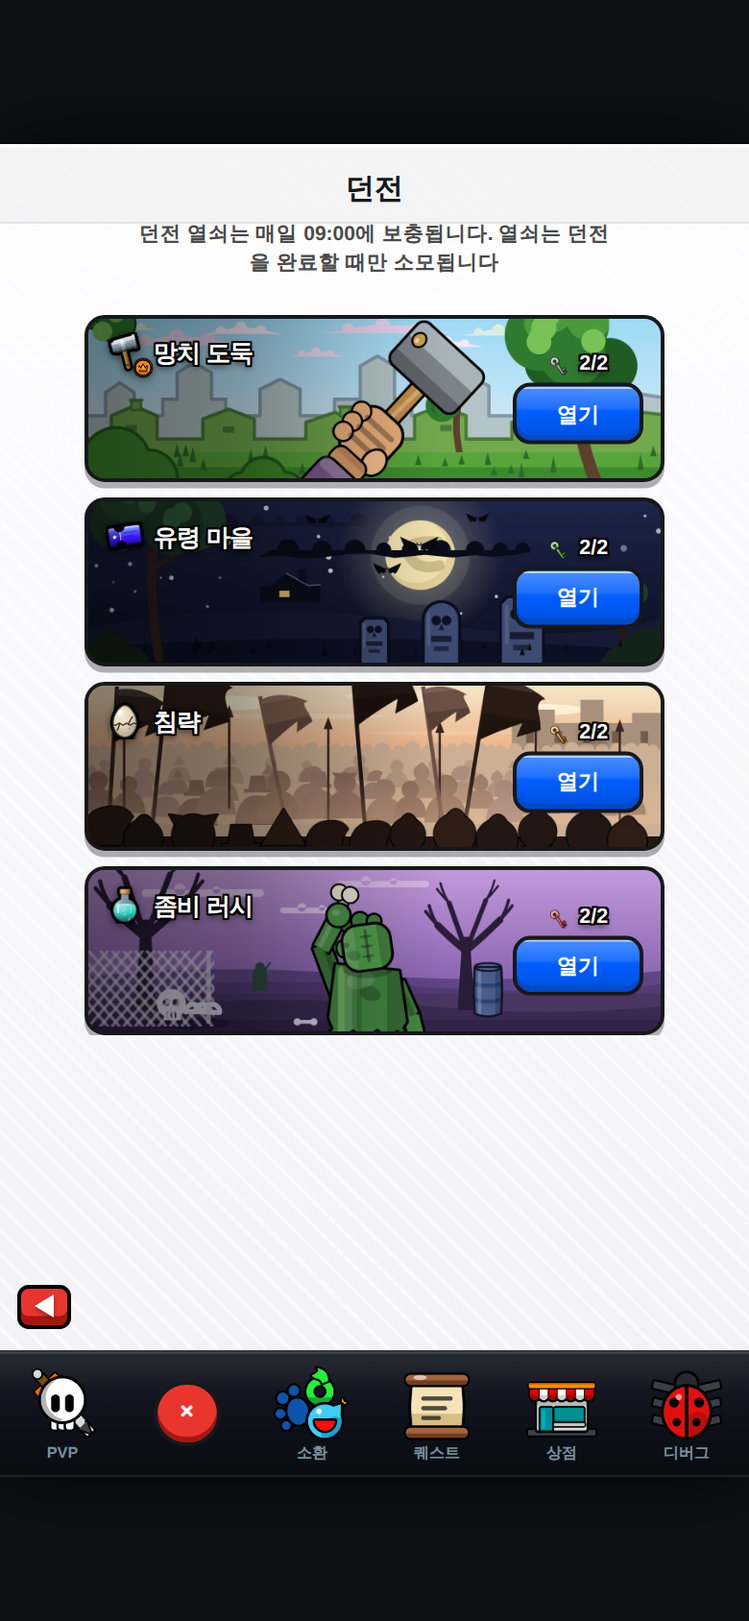
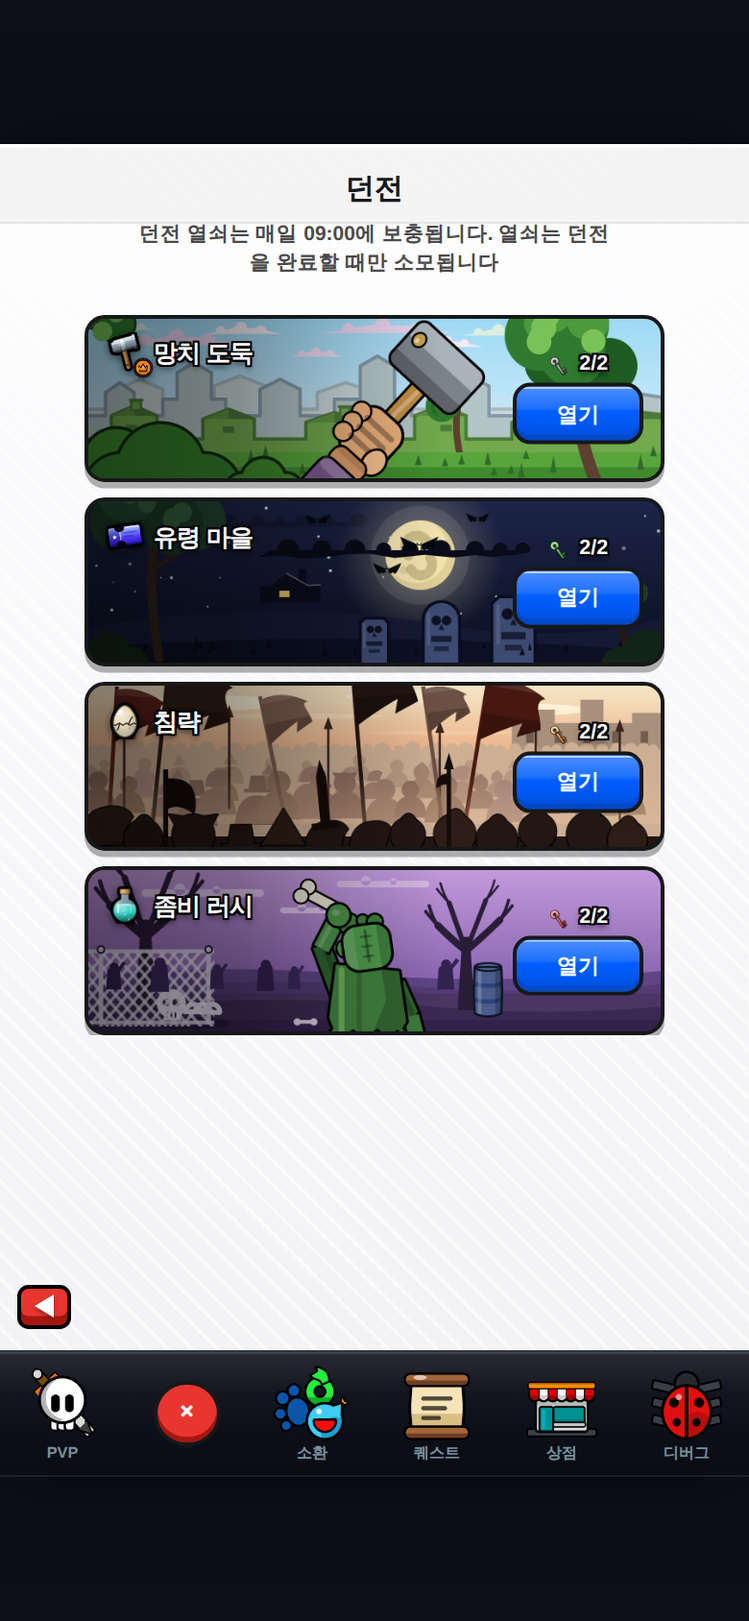
던전 행 4차 인계 공격 지점 ⓐ~ⓔ 구현 — 좀비 본체 셀 음영 재작업(반점 제거·팔몸통 명도 분리·뼈 눕혀 확대·머리혹 크기차)·지평선 떼 6기(보라 톤)·해머 스카이라인 2단+지붕 분리·철망 프레임 마감·근경 무기 3자루+암적 배너·달 S 재조형·별 절반·묘비 이동

diff --git a/web/js/icongen.js b/web/js/icongen.js
@@ -3716,6 +3716,15 @@ IconGen._genderSym = function (ctx, S, female) {
         };
         /* ⚠ 점끼리 x·y 를 동시에 바꾸면 사선 연쇄가 돼 **산맥으로 읽힌다**(1차 시안에서 밟았다).
            벽은 반드시 수직(같은 x 로 두 점), 지붕만 경사 — 그래야 건물이 된다. */
+        /* 원경 연회 열(3차 재채점 교집합 ⓒ — '건물 층이 하나로 세어진다'): 청회 열 **뒤**에 한 단
+           밝은 연회 열을 깔아 스카이라인을 2단으로 겹친다 — 청회 열의 골 사이(y0.60 부근)로
+           비쳐 대기원근 층이 선다. 지붕 경사·높이는 청회 열과 어긋나게. */
+        town([[-0.02, 0.56], [0.05, 0.56], [0.05, 0.44], [0.09, 0.38], [0.13, 0.44], [0.13, 0.56],
+        [0.22, 0.56], [0.22, 0.42], [0.265, 0.36], [0.31, 0.42], [0.31, 0.56],
+        [0.40, 0.56], [0.40, 0.46], [0.45, 0.40], [0.50, 0.46], [0.50, 0.56],
+        [0.60, 0.56], [0.60, 0.40], [0.645, 0.34], [0.69, 0.40], [0.69, 0.56],
+        [0.79, 0.56], [0.79, 0.44], [0.845, 0.38], [0.90, 0.44], [0.90, 0.56], [1.02, 0.56]],
+            '#c9d6d8', '#a7bac2');
         town([[-0.02, 0.60], [0.03, 0.60], [0.03, 0.46], [0.055, 0.40], [0.08, 0.46], [0.08, 0.60],
         [0.13, 0.60], [0.13, 0.50], [0.155, 0.50], [0.155, 0.34], [0.185, 0.28], [0.215, 0.34], [0.215, 0.50], [0.24, 0.50], [0.24, 0.60],
         [0.30, 0.60], [0.30, 0.44], [0.335, 0.38], [0.37, 0.44], [0.37, 0.60],
@@ -3731,6 +3740,15 @@ IconGen._genderSym = function (ctx, S, female) {
         [0.74, 0.74], [0.74, 0.64], [0.79, 0.58], [0.84, 0.64], [0.84, 0.74],
         [0.92, 0.74], [0.92, 0.62], [0.97, 0.58], [1.02, 0.60]],
             '#71a94c', '#4c7a3a');
+        /* 근경 열 지붕/벽 분리(3차 재채점 교집합 ⓒ — 초록 단색 폴리라인은 '산울타리'로 읽힌다):
+           박공마다 지붕 삼각을 어두운 초록으로 채워 벽(연초록)·지붕(진초록)이 갈리면 건물이 된다.
+           ⚠ 원본 실측이 '초록 성벽'이라 초록 자체는 유지(사용자 지시 우선 원칙) — 색상군은 두고
+           명도만 가른다. */
+        [[0.04, 0.08, 0.12, 0.60, 0.54], [0.20, 0.245, 0.29, 0.62, 0.56], [0.38, 0.43, 0.48, 0.64, 0.58],
+        [0.57, 0.615, 0.66, 0.60, 0.54], [0.74, 0.79, 0.84, 0.64, 0.58], [0.92, 0.97, 1.02, 0.62, 0.58]].forEach(([lx, px, rx2, by, py]) => {
+            fill(ctx, '#4c7a3a', () => { ctx.moveTo(W * lx, H * by); ctx.lineTo(W * px, H * py); ctx.lineTo(W * rx2, H * by); });
+            fill(ctx, '#5f9142', () => { ctx.moveTo(W * lx, H * by); ctx.lineTo(W * px, H * py); ctx.lineTo(W * px, H * by); });   // 빛 받는 왼 지붕면(2톤)
+        });
         /* 창 실루엣(10차 2인 공통 '마을 판독') — 근경 열 벽면에 어두운 창 5개 */
         [[0.065, 0.655], [0.235, 0.665], [0.425, 0.67], [0.615, 0.655], [0.795, 0.665]].forEach(([wx, wy]) =>
             fill(ctx, '#4c7a3a', () => ctx.rect(W * wx, H * wy, W * 0.020, H * 0.038)));
@@ -3799,8 +3817,12 @@ IconGen._genderSym = function (ctx, S, female) {
             ctx.beginPath(); p(); ctx.strokeStyle = oc; ctx.lineWidth = H * 0.036; ctx.stroke();
             ctx.beginPath(); p(); ctx.fillStyle = fc; ctx.fill();
         };
-        bush(W * 0.04, H * 0.98, 1.5, '#3f8a2c', '#245c1e');
-        bush(W * 0.30, H * 1.06, 1.0, '#3f8a2c', '#245c1e');
+        /* 키라인 통일(3차 재채점 교집합 ⓔ — '주먹·망치만 키라인이라 조형 언어가 갈린다'):
+           근경 덤불도 주인공과 같은 근흑 키라인으로 내려 전경 소품의 화법을 하나로 묶는다.
+           + 좌측 전경 덤불 1개 추가(좌하단이 풀포기뿐이라 전경 층이 비었다). */
+        bush(W * 0.04, H * 0.98, 1.5, '#3f8a2c', '#102a10');
+        bush(W * 0.115, H * 1.05, 2.0, '#35802a', '#102a10');
+        bush(W * 0.30, H * 1.06, 1.0, '#3f8a2c', '#102a10');
         // 좌상단 늘어진 수풀 — 원본은 좌우 가장자리가 잎으로 채워져 프레임이 꽉 찬다(비평가 4차 '성김')
         for (let i = 0; i < 6; i++) {
             const x = W * (-0.015 + R() * 0.10), y = H * (-0.12 + R() * 0.34), r = H * (0.10 + R() * 0.08);
@@ -3874,8 +3896,8 @@ IconGen._genderSym = function (ctx, S, female) {
            모서리엔 어두운 덤불. */
         const W = S * AR, H = S, R = rnd(23);
         sky(ctx, W, H, '#1d2549', '#0b0f22');
-        for (let i = 0; i < 26; i++) {                                    // 별 — 원본처럼 성기게, 큰 놈 몇 개
-            const x = R() * W, y = R() * H * 0.72, r = H * (0.006 + R() * 0.014);
+        for (let i = 0; i < 26; i++) {                                    // 별 — 원본처럼 성기게. 3차 교집합 ⓔ: 최대 지름 절반('행성처럼 크다') — 단 크기 편차는 원본 사양이라 편차 자체는 유지
+            const x = R() * W, y = R() * H * 0.72, r = H * (0.005 + R() * 0.007);
             fill(ctx, `rgba(255,255,255,${0.35 + R() * 0.55})`, () => ctx.arc(x, y, r, 0, Math.PI * 2));
         }
         (() => {                                                          // 뒤 구름 줄 2개(달 뒤·한 단 밝게)
@@ -3901,14 +3923,18 @@ IconGen._genderSym = function (ctx, S, female) {
         ctx.fillStyle = 'rgba(150,120,60,.18)'; ctx.fillRect(mx - mr, my - mr, mr * 2, mr * 2);
         ctx.beginPath(); ctx.arc(mx - mr * 0.12, my - mr * 0.12, mr * 0.92, 0, Math.PI * 2);
         ctx.fillStyle = '#f2e2ae'; ctx.fill();
-        // 소용돌이 무늬(원본 달의 'S' 마킹)
-        ctx.strokeStyle = 'rgba(120,100,55,.30)'; ctx.lineWidth = mr * 0.30; ctx.lineCap = 'round';
-        ctx.beginPath();
-        ctx.moveTo(mx + mr * 0.52, my - mr * 0.38);
-        ctx.quadraticCurveTo(mx - mr * 0.55, my - mr * 0.45, mx - mr * 0.30, my + mr * 0.05);
-        ctx.quadraticCurveTo(mx - mr * 0.05, my + mr * 0.45, mx + mr * 0.55, my + mr * 0.30);
+        /* 소용돌이 무늬(원본 달의 'S' 마킹) — 3차 A '숫자 6으로 읽힘': 원본 사양이라 각인 자체는
+           유지하되(채택 금지 목록 — 크레이터 전면 교체 아님), 한 획 갈고리 → **위/아래 반원 두 획**
+           으로 갈라 진짜 S 리듬으로 재조형. 폐곡선 느낌이 없어져 숫자로 안 읽힌다.
+           + 흐린 크레이터 원반 2개(무늬 아닌 지형 결 — 저알파 보조). */
+        ctx.strokeStyle = 'rgba(120,100,55,.30)'; ctx.lineWidth = mr * 0.28; ctx.lineCap = 'round';
+        ctx.beginPath(); ctx.arc(mx - mr * 0.10, my - mr * 0.22, mr * 0.34, Math.PI * 0.75, Math.PI * 1.85);   // 윗 반원(왼쪽으로 열림)
+        ctx.stroke();
+        ctx.beginPath(); ctx.arc(mx + mr * 0.02, my + mr * 0.26, mr * 0.32, Math.PI * 1.80, Math.PI * 0.85);   // 아랫 반원(오른쪽으로 열림)
         ctx.stroke();
         ctx.lineCap = 'butt';
+        fill(ctx, 'rgba(120,100,55,.16)', () => ctx.arc(mx + mr * 0.52, my - mr * 0.30, mr * 0.16, 0, Math.PI * 2));   // 크레이터(보조)
+        fill(ctx, 'rgba(120,100,55,.14)', () => ctx.arc(mx - mr * 0.48, my + mr * 0.42, mr * 0.12, 0, Math.PI * 2));
         ctx.restore();
         /* 찢긴 검은 구름 줄 — 원본의 그 가로 스트릭. 달 **앞**을 지나는 한 줄이 핵심이라 달 뒤에
            깔면 의미가 없다(그래서 달 다음에 그린다). 좌반부 평균 휘도 하한(probe-dungeon-title-ink,
@@ -3996,7 +4022,7 @@ IconGen._genderSym = function (ctx, S, female) {
         };
         stone(W * 0.475, H * 0.70, H * 0.17, H * 0.30, true);              // 셋째(작게, 각진 어깨) — 바닥 허전함 보완(비평가 4차)
         stone(W * 0.585, H * 0.62, H * 0.22, H * 0.40);
-        stone(W * 0.72, H * 0.56, H * 0.26, H * 0.48, true);               // 큰 것은 각짐/둥긂을 섞어 리듬(비평가 5차)
+        stone(W * 0.705, H * 0.56, H * 0.26, H * 0.48, true);              // 큰 것은 각짐/둥긂을 섞어 리듬(비평가 5차) · 3차 교집합 ⓔ: [열기]에 잘리던 자리에서 ~10px 왼쪽으로
         for (let i = 0; i < 18; i++) {                                     // 앞 언덕 풀 실루엣 — 지면이 무지 단색으로 끊기지 않게
             const x = W * (0.02 + R() * 0.92), y = H * (0.90 + R() * 0.05), h = H * (0.035 + R() * 0.035);
             fill(ctx, '#060913', () => { const w2 = H * (0.020 + R() * 0.020); ctx.moveTo(x, y); ctx.lineTo(x + w2 / 2, y - h); ctx.lineTo(x + w2, y); });
@@ -4173,10 +4199,10 @@ IconGen._genderSym = function (ctx, S, female) {
         };
         banner(W * 0.30, H * 0.08, H * 0.28, H * 0.30, -0.20, '#7d5c4e');  // 중경 밝은 배너(군중 앞이라 깊이가 갈린다)
         banner(W * 0.585, H * 0.02, H * 0.26, H * 0.28, -0.14, '#6d5044');
-        banner(W * 0.05, H * 0.02, H * 0.30, H * 0.34, 0.06, '#33231b');   /* 9차 '배너 복붙' — 색을 4종으로 갈랐다 */
+        banner(W * 0.05, H * 0.02, H * 0.30, H * 0.34, 0.06, '#5a2019');   /* 9차 '배너 복붙' — 색을 4종으로 갈랐다 · 3차 교집합 ⓔ: 1장은 암적 악센트(전장 서사 + 팔레트 포인트) */
         banner(W * 0.14, -H * 0.10, H * 0.40, H * 0.42, 0.10, '#2e1c15');
         banner(W * 0.46, -H * 0.14, H * 0.38, H * 0.40, -0.08, '#241511');
-        banner(W * 0.70, -H * 0.05, H * 0.36, H * 0.40, 0.16, '#291a12');
+        banner(W * 0.70, -H * 0.05, H * 0.36, H * 0.40, 0.16, '#471810');  // 3차 교집합 ⓔ: 암적 두 번째(좌우로 벌려 반복감 방지)
         (() => {                                                           // 지면 먼지/헤이즈 — 하단이 딱딱하게 끊기지 않게(비평가 3차)
             const hz = ctx.createLinearGradient(0, H * 0.55, 0, H * 0.82);
             hz.addColorStop(0, 'rgba(242,196,156,0)'); hz.addColorStop(1, 'rgba(242,196,156,.30)');
@@ -4186,6 +4212,32 @@ IconGen._genderSym = function (ctx, S, female) {
         for (let i = 0; i < 13; i++) {                                     // 앞 열 — 키라인 + 폭 변주(균일 반원 반복 = 스캘럽 무늬, 비평가 6차)
             figure(W * (i / 13 + 0.015 + R() * 0.025), H * (0.875 + R() * 0.08), 1.75 + R() * 0.8, i % 4 ? '#241612' : '#2e1d16', pickKind(R()), 'rgba(5,3,2,.9)', 1.6 + R() * 0.7);   // 머리가 하단 크롭에 잘리면 삼각 톱니로 읽힌다 — 0.875H
         }
+        /* 근경 무기 실루엣(3차 재채점 교집합 ⓔ): 앞 열 머리 위로 솟는 도끼·검·미늘창 3자루 —
+           창 6자루는 중경 몫이라 가늘어서, 근경엔 '무장한 무리'를 세우는 굵은 실루엣이 없었다.
+           우측 28%는 UI 열이라 피하고(≤0.66W), 앞 열보다 한 단 어두운 근흑으로 갈라 층을 만든다. */
+        (() => {
+            const c = '#140b07';
+            const pole = (x, top, bot, w2) => fill(ctx, c, () => ctx.rect(x - w2 / 2, top, w2, bot - top));
+            // 도끼(0.135W) — 자루 + 한쪽 초승달 날. ⚠ 날 윗변을 자루 꼭대기에서 시작하면
+            // '장대 깃발'로 읽힌다(1차 캡처 확인) — 자루 끝이 날 **위로** 삐져나오고, 날은
+            // 등이 자루에 붙은 두툼한 초승달이어야 도끼가 된다.
+            pole(W * 0.135, H * 0.520, H * 1.0, H * 0.030);
+            fill(ctx, c, () => {
+                ctx.moveTo(W * 0.135 + H * 0.010, H * 0.575);
+                ctx.quadraticCurveTo(W * 0.135 + H * 0.215, H * 0.560, W * 0.135 + H * 0.175, H * 0.795);
+                ctx.quadraticCurveTo(W * 0.135 + H * 0.085, H * 0.720, W * 0.135 + H * 0.010, H * 0.760);
+                ctx.closePath();
+            });
+            // 검(0.415W) — 폭 있는 날 + 크로스가드(기울여 변주)
+            ctx.save(); ctx.translate(W * 0.415, H * 0.86); ctx.rotate(-0.10);
+            fill(ctx, c, () => { ctx.moveTo(-H * 0.030, 0); ctx.lineTo(-H * 0.030, -H * 0.30); ctx.lineTo(0, -H * 0.40); ctx.lineTo(H * 0.030, -H * 0.30); ctx.lineTo(H * 0.030, 0); ctx.closePath(); });
+            fill(ctx, c, () => ctx.rect(-H * 0.085, -H * 0.02, H * 0.17, H * 0.038));
+            ctx.restore();
+            // 미늘창(0.63W) — 자루 + 창끝 + 옆갈고리
+            pole(W * 0.63, H * 0.50, H * 1.0, H * 0.026);
+            fill(ctx, c, () => { ctx.moveTo(W * 0.63 - H * 0.030, H * 0.52); ctx.lineTo(W * 0.63, H * 0.42); ctx.lineTo(W * 0.63 + H * 0.030, H * 0.52); ctx.closePath(); });
+            fill(ctx, c, () => { ctx.moveTo(W * 0.63, H * 0.545); ctx.quadraticCurveTo(W * 0.63 - H * 0.085, H * 0.545, W * 0.63 - H * 0.075, H * 0.635); ctx.quadraticCurveTo(W * 0.63 - H * 0.035, H * 0.60, W * 0.63, H * 0.615); ctx.closePath(); });
+        })();
     };
 
     /* 🧟 좀비 러시 — 보라 하늘 + 고목 2그루 + 철망 울타리 + 드럼통 */
@@ -4294,44 +4346,62 @@ IconGen._genderSym = function (ctx, S, female) {
            낮게(y 0.52~0.90H) 깔아 지평선 소품으로 읽히게 한다. */
         ctx.save();
         ctx.beginPath(); ctx.rect(0, H * 0.50, W * 0.22, H * 0.46); ctx.clip();
-        ctx.strokeStyle = 'rgba(220,215,230,.62)'; ctx.lineWidth = H * 0.019;   // 메쉬를 굵고 진하게 — 얇으면 재질감이 죽는다(비평가 3차)
+        ctx.strokeStyle = 'rgba(228,223,238,.72)'; ctx.lineWidth = H * 0.019;   // 메쉬를 굵고 진하게 — 얇으면 재질감이 죽는다(비평가 3차) · 한 단 더 진하게(3차 교집합 ⓓ)
         for (let i = -4; i < 9; i++) {
             ctx.beginPath(); ctx.moveTo(i * H * 0.07, H * 0.50); ctx.lineTo(i * H * 0.07 + H * 0.40, H * 0.96); ctx.stroke();
             ctx.beginPath(); ctx.moveTo(i * H * 0.07 + H * 0.40, H * 0.50); ctx.lineTo(i * H * 0.07, H * 0.96); ctx.stroke();
         }
         ctx.restore();
+        /* 철망 마감(3차 재채점 교집합 ⓓ): 크로스해치가 프레임 없이 공중에서 끊겨 '깨진 무늬'로
+           읽혔다 — 상·하단 가로 레일 + 포스트 2본 + 포스트 캡으로 '울타리 구조물'을 세운다.
+           위치·범위(0~0.22W, y0.50~0.96H)는 사양 그대로. */
         ctx.save();
-        ctx.strokeStyle = 'rgba(200,195,212,.78)'; ctx.lineWidth = H * 0.026;
-        ctx.beginPath(); ctx.moveTo(W * 0.21, H * 0.50); ctx.lineTo(W * 0.21, H * 0.94); ctx.stroke();
+        ctx.strokeStyle = 'rgba(210,205,224,.88)'; ctx.lineWidth = H * 0.024;
+        ctx.beginPath(); ctx.moveTo(0, H * 0.505); ctx.lineTo(W * 0.22, H * 0.505); ctx.stroke();  // 상단 레일
+        ctx.beginPath(); ctx.moveTo(0, H * 0.935); ctx.lineTo(W * 0.22, H * 0.935); ctx.stroke();  // 하단 레일
+        ctx.lineWidth = H * 0.028;
+        [W * 0.022, W * 0.21].forEach(px => {                                                      // 포스트 2본
+            ctx.beginPath(); ctx.moveTo(px, H * 0.50); ctx.lineTo(px, H * 0.945); ctx.stroke();
+        });
+        [W * 0.022, W * 0.21].forEach(px => {                                                      // 포스트 캡(둥근 머리 + 어두운 키라인)
+            ctx.beginPath(); ctx.arc(px, H * 0.495, H * 0.021, 0, Math.PI * 2);
+            ctx.fillStyle = '#cfc9de'; ctx.fill();
+            ctx.strokeStyle = '#1c1333'; ctx.lineWidth = H * 0.010; ctx.stroke();
+        });
         ctx.restore();
 
-        /* 지평선 좀비 떼(2차 재채점 A4 — '러시'인데 1구뿐): 능선 위 뒷모습 실루엣 2구.
-           디테일 없는 단색 암록 — 주인공과 명도로 갈려 원근이 선다. */
-        [[0.30, 0.60, 0.55], [0.505, 0.575, 0.42]].forEach(([zx, zy, zs]) => {
-            const x = W * zx, y = H * zy, u = H * 0.10 * zs;
-            fill(ctx, '#2c4a3c', () => {                                   // 몸통+머리 한 덩어리 실루엣
+        /* 지평선 좀비 떼(3차 재채점 교집합 ⓑ — 5~8기·간격/크기 변주·어두운 보라 톤): 종전 2구
+           중 0.505W 쪽이 주인공(0.41~0.58W)에 가려 '1구'로 세어졌다 — 그 대역을 비우고 좌 4·우 2 로
+           6기를 편성. 암록(#2c4a3c)은 주인공 초록과 색상군이 겹쳐 원근이 안 갈렸다 — 능선(#533a74)
+           보다 어두운 보라 2톤으로 내려 '실루엣 떼'로 읽히게 한다. arm: 1=치켜든 팔, 0=없음(변주). */
+        [[0.045, 0.600, 0.52, 1, 0], [0.125, 0.578, 0.66, 0, 1], [0.225, 0.608, 0.48, 1, 1],
+        [0.310, 0.588, 0.60, 0, 0], [0.360, 0.618, 0.44, 1, 1], [0.625, 0.585, 0.58, 1, 0]].forEach(([zx, zy, zs, arm, tone]) => {
+            const x = W * zx, y = H * zy, u = H * 0.10 * zs, c = tone ? '#3a2a5c' : '#31224e';
+            fill(ctx, c, () => {                                           // 몸통+머리 한 덩어리 실루엣
                 ctx.moveTo(x - u * 0.9, y + u * 2.6);
                 ctx.lineTo(x - u * 0.8, y + u * 0.55); ctx.quadraticCurveTo(x - u * 0.75, y + u * 0.2, x - u * 0.45, y + u * 0.15);
                 ctx.arc(x, y, u * 0.52, Math.PI, 0);                       // 머리
                 ctx.quadraticCurveTo(x + u * 0.75, y + u * 0.25, x + u * 0.7, y + u * 0.6);
                 ctx.lineTo(x + u * 0.85, y + u * 2.6); ctx.closePath();
             });
-            fill(ctx, '#2c4a3c', () => { ctx.moveTo(x + u * 0.55, y + u * 0.5); ctx.lineTo(x + u * 1.25, y - u * 0.45); ctx.lineTo(x + u * 1.05, y - u * 0.55); ctx.lineTo(x + u * 0.42, y + u * 0.3); ctx.closePath(); });   // 치켜든 팔
+            if (arm) fill(ctx, c, () => { ctx.moveTo(x + u * 0.58, y + u * 0.58); ctx.lineTo(x + u * 1.38, y - u * 0.40); ctx.lineTo(x + u * 1.04, y - u * 0.66); ctx.lineTo(x + u * 0.36, y + u * 0.26); ctx.closePath(); });   // 치켜든 팔(원경 축소에서도 읽히게 두껍게)
         });
         /* 주인공 — 가운데 팔 든 좀비 (잔여 결함 ⓐ·ⓒ). 좀비 러시 카드에 좀비가 없어서
            유령 마을과 '밤/황무지' 테마가 겹쳐 읽혔다 — 초록 좀비 하나로 두 카드가 갈린다.
            ⚠ 팔은 몸통 실루엣 **밖**으로 내야 팔로 읽힌다(안쪽에서 올리면 몸통에 통째로 가린다).
            ⚠ 네모 머리 + 점 눈 둘이면 '초록 로봇'이다 — 눈두덩 그늘·드러난 이·썩은 얼룩이 있어야
            좀비가 된다. 좌표는 세로 1.0 정규계(x 0~3.45). */
-        ink(ctx, S, bar(ctx, S, 1.512, 0.760, 1.404, 0.470, 0.104), '#3a763a', 0.030);            // 왼 위팔
+        /* 팔-몸통 명도 분리(3차 재채점 교집합 ⓐ — '팔·어깨 경계 모호'): 위팔을 몸통(#41823f)보다
+           한 단 어둡게 내려 실루엣이 겹쳐도 경계가 명도로 갈리게 한다. 아래팔은 밝게 유지(빛 방향). */
+        ink(ctx, S, bar(ctx, S, 1.512, 0.760, 1.404, 0.470, 0.104), '#2f632f', 0.030);            // 왼 위팔(몸통보다 어둡게)
         on(ctx, bar(ctx, S, 1.532, 0.768, 1.428, 0.488, 0.034), 'rgba(0,0,0,.20)');               // 위팔 아랫면 음영(단일톤 방지 — 비평가 B)
         ink(ctx, S, bar(ctx, S, 1.404, 0.490, 1.508, 0.290, 0.098), '#4a8f47', 0.030);            // 왼 아래팔(위로)
         on(ctx, bar(ctx, S, 1.394, 0.478, 1.484, 0.306, 0.028), 'rgba(255,255,255,.18)');         // 아래팔 빛면
         /* 오른팔은 **내린다** — 양팔 만세는 원본(한 팔만 뼈를 들고 다른 팔은 내린 뒷모습)과 달리
            '귀여운 만세 로봇'으로 읽힌다(비평가 6차 2인 공통). */
-        ink(ctx, S, bar(ctx, S, 1.858, 0.700, 1.948, 0.905, 0.100), '#3a763a', 0.030);            // 오른 위팔(아래로)
+        ink(ctx, S, bar(ctx, S, 1.858, 0.700, 1.948, 0.905, 0.100), '#2f632f', 0.030);            // 오른 위팔(아래로, 몸통보다 어둡게)
         on(ctx, bar(ctx, S, 1.876, 0.712, 1.958, 0.895, 0.032), 'rgba(0,0,0,.20)');
-        ink(ctx, S, bar(ctx, S, 1.948, 0.895, 1.988, 1.060, 0.092), '#458742', 0.030);            // 오른 아래팔(몸 옆으로 늘어짐)
+        ink(ctx, S, bar(ctx, S, 1.948, 0.895, 1.988, 1.060, 0.092), '#3d7a3b', 0.030);            // 오른 아래팔(그늘 쪽이라 왼쪽보다 어둡게)
         /* 몸통(비평가 9차 2인 공통 '레고/로봇 프리미티브'): 좌우 대칭 사다리꼴을 버린다 —
            오른어깨를 낮게 떨어뜨리고(뼈 든 왼쪽으로 무게가 쏠린 좀비 자세), 아랫단은
            너덜너덜한 옷자락 지그재그. 뒷모습 규약(6차 — 정면 점눈은 '귀여운 로봇')은 유지. */
@@ -4341,12 +4411,11 @@ IconGen._genderSym = function (ctx, S, female) {
         ink(ctx, S, torso, '#41823f', 0.032);
         ctx.save();
         ctx.beginPath(); torso(); ctx.clip();
-        on(ctx, rrect(ctx, S, 1.500, 0.600, 0.090, 0.440, 0.040), 'rgba(255,255,255,.14)');       // 왼쪽 하이라이트
+        /* 몸통 내부 = 셀 음영 한 톤(3차 재채점 교집합 ⓐ — 가슴 하이라이트·썩은 얼룩·목 그림자가
+           3배 확대에서 '무작위 반점'으로 읽혔다): 빛은 왼쪽 — 왼 림라이트 하나 + 오른쪽 셀 그늘
+           **한 장**(어깨선에서 사선으로 꺾이는 하드엣지)만 남긴다. 저알파 얼룩 금지. */
         on(ctx, rrect(ctx, S, 1.508, 0.600, 0.036, 0.440, 0.018), '#6fae5c');                     // 왼 가장자리 림라이트(볼륨 — 비평가 4차)
-        on(ctx, ell(ctx, S, 1.640, 0.680, 0.085, 0.055, -0.2), 'rgba(255,255,255,.12)');          // 가슴 하이라이트
-        on(ctx, rrect(ctx, S, 1.800, 0.585, 0.140, 0.450, 0), 'rgba(0,0,0,.20)');                 // 오른쪽 음영
-        on(ctx, ell(ctx, S, 1.682, 0.615, 0.150, 0.052), 'rgba(0,0,0,.24)');                      // 목 아래 드리운 그림자
-        on(ctx, ell(ctx, S, 1.700, 0.760, 0.062, 0.044, 0.3), 'rgba(0,0,0,.22)');                 // 썩은 얼룩
+        on(ctx, poly(ctx, S, [[1.760, 0.585], [1.930, 0.585], [1.930, 1.03], [1.700, 1.03], [1.796, 0.800]]), 'rgba(0,0,0,.22)');   // 오른쪽 셀 그늘(사선 하드엣지 한 장)
         on(ctx, rrect(ctx, S, 1.618, 0.585, 0.030, 0.440, 0), 'rgba(0,0,0,.16)');                 // 찢어진 옷자락 이음
         ctx.restore();
         /* 머리 = **뒷모습**(비평가 6차 2인 공통: 원본은 얼굴이 안 보이는 뒷모습 실루엣인데 점눈+
@@ -4358,24 +4427,28 @@ IconGen._genderSym = function (ctx, S, female) {
         ctx.save();
         ctx.translate(1.681 * S, 0.481 * S); ctx.rotate(-0.14); ctx.translate(-1.681 * S, -0.481 * S);
         const head = rrect(ctx, S, 1.542, 0.350, 0.278, 0.262, 0.085);
-        [[1.586, 0.332, 0.040], [1.660, 0.318, 0.048], [1.744, 0.330, 0.038]].forEach(([hx, hy, hr]) =>   // 머리털 혹(키라인째)
+        /* 머리털 혹 3개 — 크기 차를 크게(3차 재채점 B '손가락인지 혹인지': 0.040/0.048/0.038 은
+           균일 3연속이라 손가락 오독): 대·소·중 리듬 + y 도 흔든다. */
+        [[1.592, 0.326, 0.058], [1.676, 0.316, 0.030], [1.748, 0.334, 0.042]].forEach(([hx, hy, hr]) =>   // 머리털 혹(키라인째)
             ink(ctx, S, circle(ctx, S, hx, hy, hr), '#3f7d3c', 0.026));
         ink(ctx, S, ell(ctx, S, 1.536, 0.470, 0.034, 0.046), '#4f9a4b', 0.026);                   // 귀(왼 실루엣 밖으로)
         ink(ctx, S, head, '#4f9a4b', 0.032);
         ctx.save();
         ctx.beginPath(); head(); ctx.clip();
+        /* 머리 내부도 몸통과 같은 셀 규약: 빛면·그늘면·스티치만 — 저알파 얼룩(썩은 반점·볼그늘)은
+           3배 확대에서 '무작위 반점'이라 걷었다(ⓐ 처방과 한 벌). */
         on(ctx, rrect(ctx, S, 1.542, 0.350, 0.070, 0.262, 0), 'rgba(255,255,255,.12)');           // 왼쪽 빛면
         on(ctx, rrect(ctx, S, 1.752, 0.350, 0.068, 0.262, 0), 'rgba(0,0,0,.18)');                 // 오른쪽 음영
         on(ctx, rrect(ctx, S, 1.672, 0.372, 0.018, 0.200, 0.009), 'rgba(0,0,0,.34)');             // 뒤통수 스티치 흉터
         [0.408, 0.468, 0.528].forEach(y =>
             on(ctx, rrect(ctx, S, 1.646, y, 0.070, 0.014, 0.007), 'rgba(0,0,0,.30)'));
-        on(ctx, ell(ctx, S, 1.596, 0.520, 0.040, 0.030, 0.3), 'rgba(0,0,0,.18)');                 // 썩은 얼룩
-        on(ctx, ell(ctx, S, 1.556, 0.452, 0.020, 0.016), 'rgba(0,0,0,.26)');                      // 귀 앞 볼그늘(측면 힌트)
         ctx.restore();
         ctx.restore();
-        // 왼손에 쥔 뼈다귀 + 주먹(2차 재채점 — 주먹 없이 뼈가 팔에 융합돼 보였다)
-        ink(ctx, S, bar(ctx, S, 1.512, 0.290, 1.552, 0.165, 0.052), '#e6e2d2', 0.024);
-        [[1.512, 0.150], [1.578, 0.166]].forEach(p => ink(ctx, S, circle(ctx, S, p[0], p[1], 0.044), '#e6e2d2', 0.022));
+        /* 뼈다귀(3차 재채점 교집합 ⓐ — 세로로 세운 짧은 뼈의 끝 혹 2개가 머리 위 '눈알'로 오독):
+           **더 크게, 눕혀서** — 자루를 길게 좌상 45°로 뉘고 혹은 먼 끝에만(주먹이 근 끝을 가린다),
+           자루 대비 혹 비중을 줄인다. 눕히면 혹 쌍도 대각이라 눈 배치가 안 된다. */
+        ink(ctx, S, bar(ctx, S, 1.545, 0.272, 1.310, 0.148, 0.058), '#e6e2d2', 0.024);            // 자루(주먹→좌상)
+        [[1.326, 0.118], [1.282, 0.172]].forEach(p => ink(ctx, S, circle(ctx, S, p[0], p[1], 0.040), '#e6e2d2', 0.022));   // 먼 끝 혹(대각 쌍)
         ink(ctx, S, circle(ctx, S, 1.508, 0.288, 0.066), '#4a8f47', 0.028);                       // 주먹(뼈 하단을 감아쥠)
         on(ctx, ell(ctx, S, 1.492, 0.272, 0.026, 0.020), 'rgba(255,255,255,.20)');                // 주먹 광
     };
